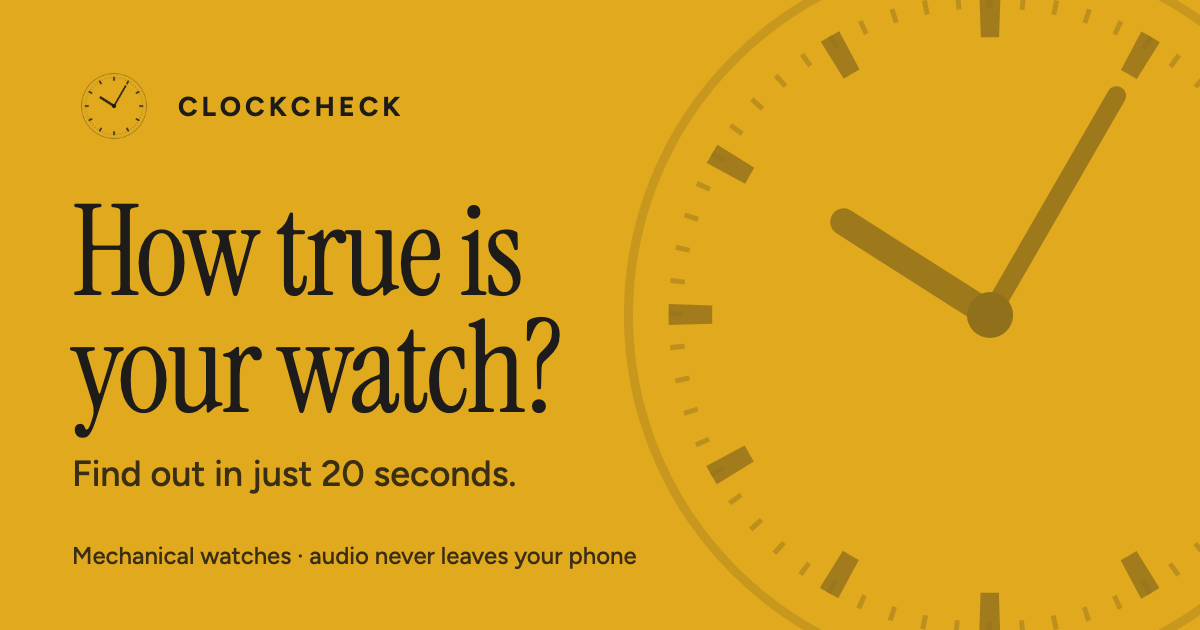
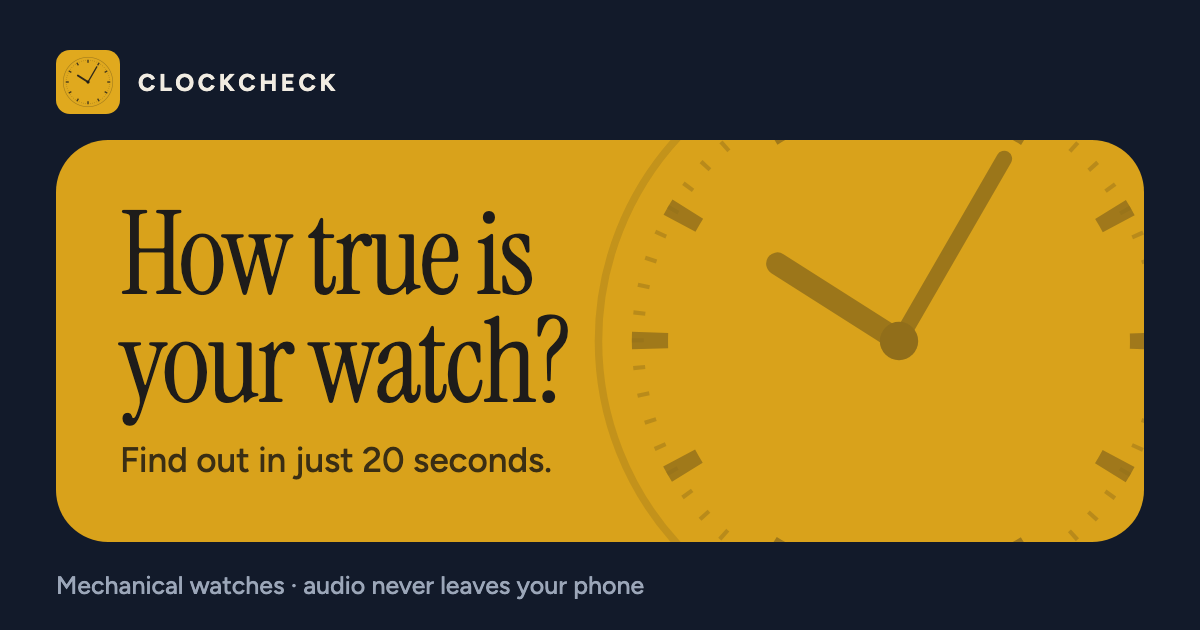
Share card: the navy version (Jason's pick), design source tidied
assets/og-card.png is now the navy ground with the saffron hero panel. _design/og-card.html is that
version (add #ivory for the light one); the earlier all-saffron source is in git history.

diff --git a/_design/og-card.html b/_design/og-card.html
@@ -5,10 +5,10 @@
 <title>ClockCheck share card (1200 x 630)</title>
 <!--
   The picture people see when the link is shared (Messages, Slack, social): assets/og-card.png.
-  Render it with _design/render-og-card.sh. The look is the app's home screen: the saffron hero
-  panel, the watch dial at 10:05 cropped off the corner, Instrument Serif headline, Figtree text.
-  Colours match assets/site.css and the app's src/theme.ts. Keep every word inside the safe area
-  (about 60px from each edge) because some apps crop the image a little.
+  The brand's own composition: a calm ground with ONE saffron hero panel. Published version: navy
+  (the app's dark mode; chosen by Jason 2026-11-21). An ivory version (the app's light mode) is the
+  same page with the address hash #ivory. Render with _design/render-og-card.sh.
+  Colours match assets/site.css and the app's src/theme.ts.
 -->
 <style>
 @font-face { font-family: "Instrument Serif"; src: url("../assets/fonts/InstrumentSerif-400Regular.woff2") format("woff2"); font-weight: 400; }
@@ -16,67 +16,51 @@
 @font-face { font-family: "Figtree"; src: url("../assets/fonts/Figtree-700Bold.woff2") format("woff2"); font-weight: 700; }
 
 * { box-sizing: border-box; }
-html, body { margin: 0; width: 1200px; height: 630px; overflow: hidden; background: #E0A91E; }
+body.ivory { --ground: #F4EFE6; --ink: #1E1C1A; --quiet: #6E6558; --hero: #E0A91E; }
+body.navy  { --ground: #121A2A; --ink: #F1ECE2; --quiet: #9BA6B8; --hero: #D9A21B; }
+html, body { margin: 0; width: 1200px; height: 630px; overflow: hidden; background: var(--ground, #F4EFE6); }
 
 .card {
-  position: relative;
-  width: 1200px;
-  height: 630px;
-  overflow: hidden;
-  background: #E0A91E;          /* hero */
-  color: #1E1C1A;               /* on-hero */
+  position: relative; width: 1200px; height: 630px; overflow: hidden;
+  background: var(--ground); color: var(--ink);
   font-family: "Figtree", system-ui, sans-serif;
+  padding: 50px 56px 0;
 }
+.brand { display: flex; align-items: center; gap: 18px; height: 64px; }
+.brand img { width: 64px; height: 64px; border-radius: 14px; display: block; }
+.brand span { font-weight: 700; font-size: 24px; letter-spacing: 0.15em; text-transform: uppercase; }
 
-/* The app icon's dial, line art in the ink colour, cropped off the right-hand corner. */
-.dial {
-  position: absolute;
-  width: 770px;
-  height: 770px;
-  right: -175px;
-  top: -70px;
-  color: #1E1C1A;
-  opacity: 0.4;
+/* The saffron hero panel, like the app's home screen. */
+.panel {
+  position: relative; margin-top: 26px; height: 402px; border-radius: 52px;
+  background: var(--hero); color: #1E1C1A; overflow: hidden;
+  display: flex; flex-direction: column; justify-content: center; padding: 0 64px;
 }
+.dial { position: absolute; width: 640px; height: 640px; right: -75px; top: -119px; color: #1E1C1A; opacity: 0.38; }
+.panel h1, .panel p { position: relative; }
+h1 { margin: 0; font-family: "Instrument Serif", Georgia, serif; font-weight: 400; font-size: 116px; line-height: 0.93; letter-spacing: -2.4px; }
+.lead { margin: 22px 0 0; font-weight: 500; font-size: 35px; color: #3A2E14; }
 
-.content {
-  position: absolute;
-  inset: 0;
-  padding: 64px 72px 60px;
-  display: flex;
-  flex-direction: column;
-  justify-content: space-between;
-}
-
-.brand { display: flex; align-items: center; gap: 22px; }
-.brand img { width: 84px; height: 84px; border-radius: 19px; display: block; }
-.brand span { font-weight: 700; font-size: 27px; letter-spacing: 0.15em; text-transform: uppercase; }
-
-.headline { margin-top: 0; }
-h1 { margin: 0; font-family: "Instrument Serif", Georgia, serif; font-weight: 400; font-size: 126px; line-height: 0.93; letter-spacing: -2.5px; }
-.lead { margin: 24px 0 0; font-weight: 500; font-size: 36px; color: #3A2E14; }
-
-.foot { font-weight: 500; font-size: 24px; color: #3A2E14; }
+.foot { margin-top: 28px; font-weight: 500; font-size: 25px; color: var(--quiet); }
 </style>
 </head>
 <body>
 <div class="card">
-  <svg class="dial" viewBox="0 0 230 230" fill="none" stroke="currentColor" aria-hidden="true">
-    <circle cx="115" cy="115" r="108" stroke-opacity=".3" stroke-width="2.7"/>
-    <circle cx="115" cy="115" r="93.85" stroke-opacity=".45" stroke-width="4.3" stroke-dasharray="1.5 8.33" transform="rotate(-90.46 115 115)"/>
-    <circle cx="115" cy="115" r="89.5" stroke-opacity=".8" stroke-width="13" stroke-dasharray="5.9 40.96" transform="rotate(-91.89 115 115)"/>
-    <line x1="115" y1="115" x2="71.3" y2="87.2" stroke-opacity=".85" stroke-width="8.1" stroke-linecap="round"/>
-    <line x1="115" y1="115" x2="152.8" y2="49.5" stroke-opacity=".85" stroke-width="5.7" stroke-linecap="round"/>
-    <circle cx="115" cy="115" r="6.9" fill="currentColor" stroke="none"/>
-  </svg>
-  <div class="content">
-    <div class="brand"><img src="icon-app.png" alt=""><span>ClockCheck</span></div>
-    <div class="headline">
-      <h1>How true is<br>your watch?</h1>
-      <p class="lead">Find out in just 20 seconds.</p>
-    </div>
-    <div class="foot">Mechanical watches &middot; audio never leaves your phone</div>
+  <div class="brand"><img src="icon-app.png" alt=""><span>ClockCheck</span></div>
+  <div class="panel">
+    <svg class="dial" viewBox="0 0 230 230" fill="none" stroke="currentColor" aria-hidden="true">
+      <circle cx="115" cy="115" r="108" stroke-opacity=".3" stroke-width="2.7"/>
+      <circle cx="115" cy="115" r="93.85" stroke-opacity=".45" stroke-width="4.3" stroke-dasharray="1.5 8.33" transform="rotate(-90.46 115 115)"/>
+      <circle cx="115" cy="115" r="89.5" stroke-opacity=".8" stroke-width="13" stroke-dasharray="5.9 40.96" transform="rotate(-91.89 115 115)"/>
+      <line x1="115" y1="115" x2="71.3" y2="87.2" stroke-opacity=".85" stroke-width="8.1" stroke-linecap="round"/>
+      <line x1="115" y1="115" x2="152.8" y2="49.5" stroke-opacity=".85" stroke-width="5.7" stroke-linecap="round"/>
+      <circle cx="115" cy="115" r="6.9" fill="currentColor" stroke="none"/>
+    </svg>
+    <h1>How true is<br>your watch?</h1>
+    <p class="lead">Find out in just 20 seconds.</p>
   </div>
+  <div class="foot">Mechanical watches &middot; audio never leaves your phone</div>
 </div>
+<script>document.body.className = (location.hash || '#navy').slice(1);</script>
 </body>
 </html>

diff --git a/README.md b/README.md
@@ -15,8 +15,8 @@ There is no Terms of Use page on purpose: the app uses Apple's standard licence 
 | `assets/fonts/` | Self-hosted woff2 fonts (Latin subset) and their licences |
 | `favicon-32.png`, `apple-touch-icon.png`, `assets/icon-*.png` | Resized from the app icon (`assets/icon.png` in the app repo) |
 | `images/screens/` | The six app screens for the home page carousel, each in a light (`01.png`) and a dark (`01-dark.png`) version, 720px-wide PNGs |
-| `assets/og-card.png` | The picture shown when a link to the site is shared (Messages, Slack, social): 1200 x 630, the app's saffron hero panel with the dial at 10:05. Every page names it in its `og:image` and `twitter:image` tags (`SHARE_IMAGE` in `build.py`) |
-| `_design/` | The source of that picture (`og-card.html`, the app icon, `render-og-card.sh`). Not published (starts with `_`). To change the card: edit `og-card.html`, run `sh _design/render-og-card.sh` (needs Google Chrome and Pillow), commit the new PNG. Apps cache previews per link, so test a changed card with a new address such as `https://clockcheck.app/?v=2` |
+| `assets/og-card.png` | The picture shown when a link to the site is shared (Messages, Slack, social): 1200 x 630, the navy ground (the app's dark mode) with the saffron hero panel and the dial at 10:05 (Jason chose it over an ivory and an all-saffron version, 2026-11-21). Every page names it in its `og:image` and `twitter:image` tags (`SHARE_IMAGE` in `build.py`) |
+| `_design/` | The source of that picture (`og-card.html`, the app icon, `render-og-card.sh`). Not published (starts with `_`). To change the card: edit `og-card.html`, run `sh _design/render-og-card.sh` (needs Google Chrome and Pillow; `CARD_THEME=ivory sh _design/render-og-card.sh` renders the light version), commit the new PNG. Apps cache previews per link, so test a changed card with a new address such as `https://clockcheck.app/?v=2` |
 | `CNAME` | `clockcheck.app`, for GitHub Pages |
 | `_src/` | Page content. `_src/legal/privacy.html` holds the Privacy Policy |
 | `build.py` | Wraps `_src/` pages in the shared header and footer (Python 3, standard library only) |
